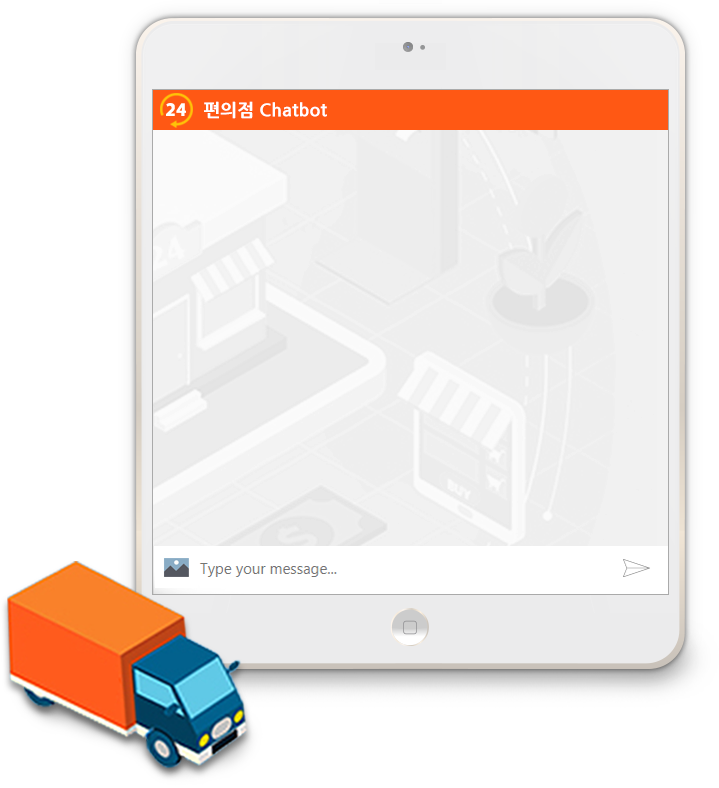
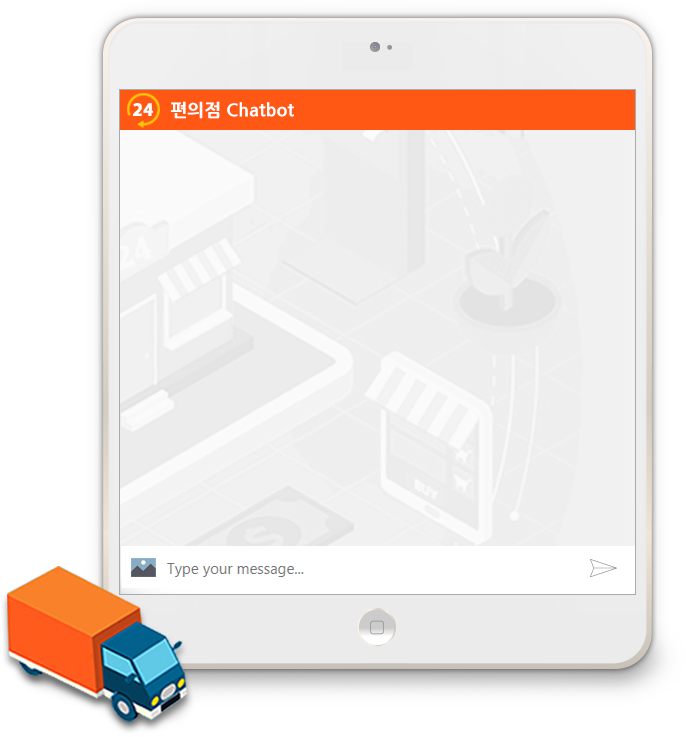
편의점 백그라운드 및 이미지 사이즈조정

diff --git a/public/stylesheets/botchat.css b/public/stylesheets/botchat.css
@@ -1,6 +1,6 @@
 /* reset */
 
-body { background:url(../image/convenience_bg.png) no-repeat  center 0px;}
+body { background:url(../image/convenience_bg.png) no-repeat  center 0px; background-position-y:-140px;}
 body .wc-app, .wc-app button, .wc-app input, .wc-app textarea {font-family: 'Segoe UI', sans-serif; font-size: 15px; }
 
 .wc-app button {
@@ -20,7 +20,7 @@ body .wc-app, .wc-app button, .wc-app input, .wc-app textarea {font-family: 'Seg
 
 .wc-app audio, .wc-app video {display: block;}
 
-#bot {overflow: hidden;position: absolute;right: 0;left: 0;top: 0; bottom: 0;  margin:auto ;  width:863px; height:746px; background: url(../image/chat_bgmobile.png) no-repeat 0px 0px; padding-left:270px}
+#bot {overflow: hidden;position: absolute;right: 0;left: 0;top: 0; bottom: 0;  margin:auto ;  width:575px; height:746px; background: url(../image/convenience_chat.png) no-repeat 0px 0px; padding-left:270px}
 /* docking */
 .wc-hidden {visibility: hidden;}
 .wc-header {left: 0; padding: 8px 8px 0 8px;position: absolute;right: 0;top: 0;z-index: 1; }
